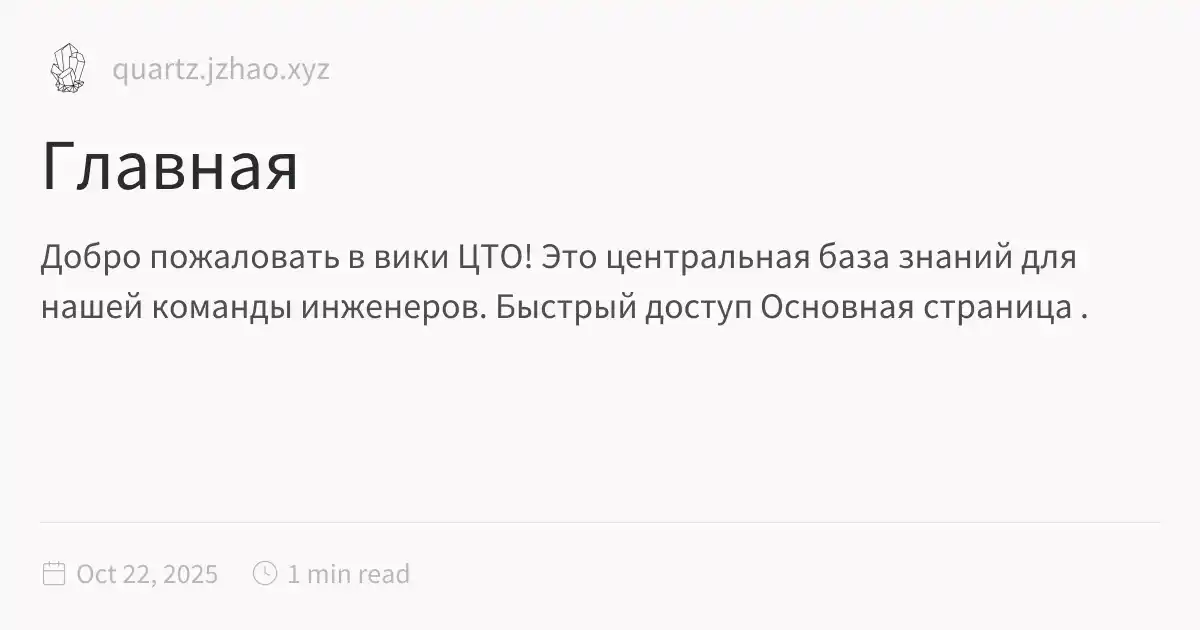
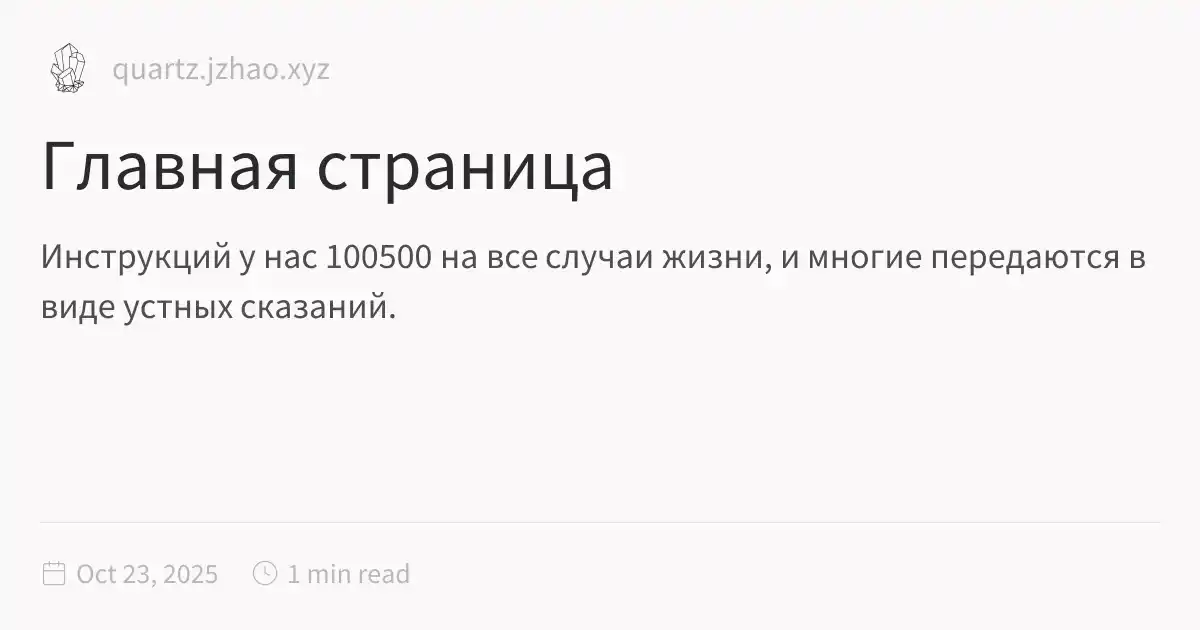
deploy: 6b2275c930671118a20440f96c6476d3b734d8e3

Changed region(s): [[0.0308, 0.3619, 0.9558, 0.5127], [0.2467, 0.2413, 0.5242, 0.3317]]

diff --git a/index.html b/index.html
@@ -1,5 +1,5 @@
 <!DOCTYPE html>
-<html lang="en" dir="ltr"><head><title>Главная</title><meta charset="utf-8"/><link rel="preconnect" href="https://fonts.googleapis.com"/><link rel="preconnect" href="https://fonts.gstatic.com"/><link rel="stylesheet" href="https://fonts.googleapis.com/css2?family=Schibsted Grotesk:wght@400;700&amp;family=Source Sans Pro:ital,wght@0,400;0,600;1,400;1,600&amp;family=IBM Plex Mono:wght@400;600&amp;display=swap"/><link rel="preconnect" href="https://cdnjs.cloudflare.com" crossorigin="anonymous"/><meta name="viewport" content="width=device-width, initial-scale=1.0"/><meta name="og:site_name" content="База знаний"/><meta property="og:title" content="Главная"/><meta property="og:type" content="website"/><meta name="twitter:card" content="summary_large_image"/><meta name="twitter:title" content="Главная"/><meta name="twitter:description" content="Добро пожаловать в вики ЦТО! Это центральная база знаний для нашей команды инженеров. Быстрый доступ Основная страница ."/><meta property="og:description" content="Добро пожаловать в вики ЦТО! Это центральная база знаний для нашей команды инженеров. Быстрый доступ Основная страница ."/><meta property="og:image:alt" content="Добро пожаловать в вики ЦТО! Это центральная база знаний для нашей команды инженеров. Быстрый доступ Основная страница ."/><meta property="twitter:domain" content="quartz.jzhao.xyz"/><meta property="og:url" content="https://quartz.jzhao.xyz/index"/><meta property="twitter:url" content="https://quartz.jzhao.xyz/index"/><link rel="icon" href="./static/icon.png"/><meta name="description" content="Добро пожаловать в вики ЦТО! Это центральная база знаний для нашей команды инженеров. Быстрый доступ Основная страница ."/><meta name="generator" content="Quartz"/><link href="./index.css" rel="stylesheet" type="text/css" spa-preserve/><style>.expand-button {
+<html lang="en" dir="ltr"><head><title>Главная страница</title><meta charset="utf-8"/><link rel="preconnect" href="https://fonts.googleapis.com"/><link rel="preconnect" href="https://fonts.gstatic.com"/><link rel="stylesheet" href="https://fonts.googleapis.com/css2?family=Schibsted Grotesk:wght@400;700&amp;family=Source Sans Pro:ital,wght@0,400;0,600;1,400;1,600&amp;family=IBM Plex Mono:wght@400;600&amp;display=swap"/><link rel="preconnect" href="https://cdnjs.cloudflare.com" crossorigin="anonymous"/><meta name="viewport" content="width=device-width, initial-scale=1.0"/><meta name="og:site_name" content="База знаний"/><meta property="og:title" content="Главная страница"/><meta property="og:type" content="website"/><meta name="twitter:card" content="summary_large_image"/><meta name="twitter:title" content="Главная страница"/><meta name="twitter:description" content="Инструкций у нас 100500 на все случаи жизни, и многие передаются в виде устных сказаний."/><meta property="og:description" content="Инструкций у нас 100500 на все случаи жизни, и многие передаются в виде устных сказаний."/><meta property="og:image:alt" content="Инструкций у нас 100500 на все случаи жизни, и многие передаются в виде устных сказаний."/><meta property="twitter:domain" content="quartz.jzhao.xyz"/><meta property="og:url" content="https://quartz.jzhao.xyz/index"/><meta property="twitter:url" content="https://quartz.jzhao.xyz/index"/><link rel="icon" href="./static/icon.png"/><meta name="description" content="Инструкций у нас 100500 на все случаи жизни, и многие передаются в виде устных сказаний."/><meta name="generator" content="Quartz"/><link href="./index.css" rel="stylesheet" type="text/css" spa-preserve/><style>.expand-button {
   position: absolute;
   display: flex;
   float: right;
@@ -116,9 +116,9 @@ pre:hover > .expand-button {
   padding: 0 12px;
   font-size: 14px;
 }
[1 lines of base64/hex data omitted]
-<p>Это центральная база знаний для нашей команды инженеров.</p>
-<h2 id="быстрый-доступ">Быстрый доступ<a role="anchor" aria-hidden="true" tabindex="-1" data-no-popover="true" href="#быстрый-доступ" class="internal"><svg width="18" height="18" viewBox="0 0 24 24" fill="none" stroke="currentColor" stroke-width="2" stroke-linecap="round" stroke-linejoin="round"><path d="M10 13a5 5 0 0 0 7.54.54l3-3a5 5 0 0 0-7.07-7.07l-1.72 1.71"></path><path d="M14 11a5 5 0 0 0-7.54-.54l-3 3a5 5 0 0 0 7.07 7.07l1.71-1.71"></path></svg></a></h2>
[1 lines of base64/hex data omitted]
+Если хватит сил - соберу(-ём) базу знаний по частым проблемам с нормальной структурой. А если всё будет совсем хорошо - добавлю ее как приложение для Бони, чтобы все эти записи были доступны в пару нажатий, без СМС и регистрации.</p>
+<h2 id="а-еще-тут-есть">А еще тут есть:<a role="anchor" aria-hidden="true" tabindex="-1" data-no-popover="true" href="#а-еще-тут-есть" class="internal"><svg width="18" height="18" viewBox="0 0 24 24" fill="none" stroke="currentColor" stroke-width="2" stroke-linecap="round" stroke-linejoin="round"><path d="M10 13a5 5 0 0 0 7.54.54l3-3a5 5 0 0 0-7.07-7.07l-1.72 1.71"></path><path d="M14 11a5 5 0 0 0-7.54-.54l-3 3a5 5 0 0 0 7.07 7.07l1.71-1.71"></path></svg></a></h2>
 <ul>
 <li><a href="./Main" class="internal alias" data-slug="Main">Основная страница</a></li>
 </ul></article><hr/><div class="page-footer"></div></div><div class="right sidebar"><div class="graph"><h3>Graph View</h3><div class="graph-outer"><div class="graph-container" data-cfg="{&quot;drag&quot;:true,&quot;zoom&quot;:true,&quot;depth&quot;:1,&quot;scale&quot;:1.1,&quot;repelForce&quot;:0.5,&quot;centerForce&quot;:0.3,&quot;linkDistance&quot;:30,&quot;fontSize&quot;:0.6,&quot;opacityScale&quot;:1,&quot;showTags&quot;:true,&quot;removeTags&quot;:[],&quot;focusOnHover&quot;:false,&quot;enableRadial&quot;:false}"></div><button class="global-graph-icon" aria-label="Global Graph"><svg version="1.1" xmlns="http://www.w3.org/2000/svg" xmlns:xlink="http://www.w3.org/1999/xlink" x="0px" y="0px" viewBox="0 0 55 55" fill="currentColor" xml:space="preserve"><path d="M49,0c-3.309,0-6,2.691-6,6c0,1.035,0.263,2.009,0.726,2.86l-9.829,9.829C32.542,17.634,30.846,17,29,17

diff --git a/Main.html b/Main.html
@@ -126,6 +126,6 @@ pre:hover > .expand-button {
                 C46.042,11.405,47.451,12,49,12c3.309,0,6-2.691,6-6S52.309,0,49,0z M11,9c0-1.103,0.897-2,2-2s2,0.897,2,2s-0.897,2-2,2
                 S11,10.103,11,9z M6,51c-2.206,0-4-1.794-4-4s1.794-4,4-4s4,1.794,4,4S8.206,51,6,51z M33,49c0,2.206-1.794,4-4,4s-4-1.794-4-4
                 s1.794-4,4-4S33,46.794,33,49z M29,31c-3.309,0-6-2.691-6-6s2.691-6,6-6s6,2.691,6,6S32.309,31,29,31z M47,41c0,1.103-0.897,2-2,2
-                s-2-0.897-2-2s0.897-2,2-2S47,39.897,47,41z M49,10c-2.206,0-4-1.794-4-4s1.794-4,4-4s4,1.794,4,4S51.206,10,49,10z"></path></svg></button></div><div class="global-graph-outer"><div class="global-graph-container" data-cfg="{&quot;drag&quot;:true,&quot;zoom&quot;:true,&quot;depth&quot;:-1,&quot;scale&quot;:0.9,&quot;repelForce&quot;:0.5,&quot;centerForce&quot;:0.2,&quot;linkDistance&quot;:30,&quot;fontSize&quot;:0.6,&quot;opacityScale&quot;:1,&quot;showTags&quot;:true,&quot;removeTags&quot;:[],&quot;focusOnHover&quot;:true,&quot;enableRadial&quot;:true}"></div></div></div><div class="backlinks"><h3>Backlinks</h3><ul id="list-2" class="overflow"><li><a href="./" class="internal">Главная</a></li><li class="overflow-end"></li></ul></div></div><footer class><p>Created with <a href="https://quartz.jzhao.xyz/">Quartz v4.5.2</a> © 2025</p><ul><li><a href="https://github.com/jackyzha0/quartz">GitHub</a></li><li><a href="https://discord.gg/cRFFHYye7t">Discord Community</a></li></ul></footer></div></div></body><script type="application/javascript">function n(){let t=this.parentElement;t.classList.toggle("is-collapsed");let e=t.getElementsByClassName("callout-content")[0];if(!e)return;let l=t.classList.contains("is-collapsed");e.style.gridTemplateRows=l?"0fr":"1fr"}function c(){let t=document.getElementsByClassName("callout is-collapsible");for(let e of t){let l=e.getElementsByClassName("callout-title")[0],s=e.getElementsByClassName("callout-content")[0];if(!l||!s)continue;l.addEventListener("click",n),window.addCleanup(()=>l.removeEventListener("click",n));let o=e.classList.contains("is-collapsed");s.style.gridTemplateRows=o?"0fr":"1fr"}}document.addEventListener("nav",c);
+                s-2-0.897-2-2s0.897-2,2-2S47,39.897,47,41z M49,10c-2.206,0-4-1.794-4-4s1.794-4,4-4s4,1.794,4,4S51.206,10,49,10z"></path></svg></button></div><div class="global-graph-outer"><div class="global-graph-container" data-cfg="{&quot;drag&quot;:true,&quot;zoom&quot;:true,&quot;depth&quot;:-1,&quot;scale&quot;:0.9,&quot;repelForce&quot;:0.5,&quot;centerForce&quot;:0.2,&quot;linkDistance&quot;:30,&quot;fontSize&quot;:0.6,&quot;opacityScale&quot;:1,&quot;showTags&quot;:true,&quot;removeTags&quot;:[],&quot;focusOnHover&quot;:true,&quot;enableRadial&quot;:true}"></div></div></div><div class="backlinks"><h3>Backlinks</h3><ul id="list-2" class="overflow"><li><a href="./" class="internal">Главная страница</a></li><li class="overflow-end"></li></ul></div></div><footer class><p>Created with <a href="https://quartz.jzhao.xyz/">Quartz v4.5.2</a> © 2025</p><ul><li><a href="https://github.com/jackyzha0/quartz">GitHub</a></li><li><a href="https://discord.gg/cRFFHYye7t">Discord Community</a></li></ul></footer></div></div></body><script type="application/javascript">function n(){let t=this.parentElement;t.classList.toggle("is-collapsed");let e=t.getElementsByClassName("callout-content")[0];if(!e)return;let l=t.classList.contains("is-collapsed");e.style.gridTemplateRows=l?"0fr":"1fr"}function c(){let t=document.getElementsByClassName("callout is-collapsible");for(let e of t){let l=e.getElementsByClassName("callout-title")[0],s=e.getElementsByClassName("callout-content")[0];if(!l||!s)continue;l.addEventListener("click",n),window.addCleanup(()=>l.removeEventListener("click",n));let o=e.classList.contains("is-collapsed");s.style.gridTemplateRows=o?"0fr":"1fr"}}document.addEventListener("nav",c);
 </script><script type="module">function f(i,e){if(!i)return;function r(o){o.target===this&&(o.preventDefault(),o.stopPropagation(),e())}function t(o){o.key.startsWith("Esc")&&(o.preventDefault(),e())}i?.addEventListener("click",r),window.addCleanup(()=>i?.removeEventListener("click",r)),document.addEventListener("keydown",t),window.addCleanup(()=>document.removeEventListener("keydown",t))}function y(i){for(;i.firstChild;)i.removeChild(i.firstChild)}var h=class{constructor(e,r){this.container=e;this.content=r;this.setupEventListeners(),this.setupNavigationControls(),this.resetTransform()}isDragging=!1;startPan={x:0,y:0};currentPan={x:0,y:0};scale=1;MIN_SCALE=.5;MAX_SCALE=3;cleanups=[];setupEventListeners(){let e=this.onMouseDown.bind(this),r=this.onMouseMove.bind(this),t=this.onMouseUp.bind(this),o=this.resetTransform.bind(this);this.container.addEventListener("mousedown",e),document.addEventListener("mousemove",r),document.addEventListener("mouseup",t),window.addEventListener("resize",o),this.cleanups.push(()=>this.container.removeEventListener("mousedown",e),()=>document.removeEventListener("mousemove",r),()=>document.removeEventListener("mouseup",t),()=>window.removeEventListener("resize",o))}cleanup(){for(let e of this.cleanups)e()}setupNavigationControls(){let e=document.createElement("div");e.className="mermaid-controls";let r=this.createButton("+",()=>this.zoom(.1)),t=this.createButton("-",()=>this.zoom(-.1)),o=this.createButton("Reset",()=>this.resetTransform());e.appendChild(t),e.appendChild(o),e.appendChild(r),this.container.appendChild(e)}createButton(e,r){let t=document.createElement("button");return t.textContent=e,t.className="mermaid-control-button",t.addEventListener("click",r),window.addCleanup(()=>t.removeEventListener("click",r)),t}onMouseDown(e){e.button===0&&(this.isDragging=!0,this.startPan={x:e.clientX-this.currentPan.x,y:e.clientY-this.currentPan.y},this.container.style.cursor="grabbing")}onMouseMove(e){this.isDragging&&(e.preventDefault(),this.currentPan={x:e.clientX-this.startPan.x,y:e.clientY-this.startPan.y},this.updateTransform())}onMouseUp(){this.isDragging=!1,this.container.style.cursor="grab"}zoom(e){let r=Math.min(Math.max(this.scale+e,this.MIN_SCALE),this.MAX_SCALE),t=this.content.getBoundingClientRect(),o=t.width/2,n=t.height/2,c=r-this.scale;this.currentPan.x-=o*c,this.currentPan.y-=n*c,this.scale=r,this.updateTransform()}updateTransform(){this.content.style.transform=`translate(${this.currentPan.x}px, ${this.currentPan.y}px) scale(${this.scale})`}resetTransform(){this.scale=1;let e=this.content.querySelector("svg");this.currentPan={x:e.getBoundingClientRect().width/2,y:e.getBoundingClientRect().height/2},this.updateTransform()}},C=["--secondary","--tertiary","--gray","--light","--lightgray","--highlight","--dark","--darkgray","--codeFont"],E;document.addEventListener("nav",async()=>{let e=document.querySelector(".center").querySelectorAll("code.mermaid");if(e.length===0)return;E||=await import("https://cdnjs.cloudflare.com/ajax/libs/mermaid/11.4.0/mermaid.esm.min.mjs");let r=E.default,t=new WeakMap;for(let n of e)t.set(n,n.innerText);async function o(){for(let s of e){s.removeAttribute("data-processed");let a=t.get(s);a&&(s.innerHTML=a)}let n=C.reduce((s,a)=>(s[a]=window.getComputedStyle(document.documentElement).getPropertyValue(a),s),{}),c=document.documentElement.getAttribute("saved-theme")==="dark";r.initialize({startOnLoad:!1,securityLevel:"loose",theme:c?"dark":"base",themeVariables:{fontFamily:n["--codeFont"],primaryColor:n["--light"],primaryTextColor:n["--darkgray"],primaryBorderColor:n["--tertiary"],lineColor:n["--darkgray"],secondaryColor:n["--secondary"],tertiaryColor:n["--tertiary"],clusterBkg:n["--light"],edgeLabelBackground:n["--highlight"]}}),await r.run({nodes:e})}await o(),document.addEventListener("themechange",o),window.addCleanup(()=>document.removeEventListener("themechange",o));for(let n=0;n<e.length;n++){let v=function(){let g=l.querySelector("#mermaid-space"),m=l.querySelector(".mermaid-content");if(!m)return;y(m);let w=c.querySelector("svg").cloneNode(!0);m.appendChild(w),l.classList.add("active"),g.style.cursor="grab",u=new h(g,m)},M=function(){l.classList.remove("active"),u?.cleanup(),u=null},c=e[n],s=c.parentElement,a=s.querySelector(".clipboard-button"),d=s.querySelector(".expand-button"),p=window.getComputedStyle(a),L=a.offsetWidth+parseFloat(p.marginLeft||"0")+parseFloat(p.marginRight||"0");d.style.right=`calc(${L}px + 0.3rem)`,s.prepend(d);let l=s.querySelector("#mermaid-container");if(!l)return;let u=null;d.addEventListener("click",v),f(l,M),window.addCleanup(()=>{u?.cleanup(),d.removeEventListener("click",v)})}});
 </script><script src="https://cdn.jsdelivr.net/npm/katex@0.16.11/dist/contrib/copy-tex.min.js" type="application/javascript"></script><script src="./postscript.js" type="module"></script></html>
